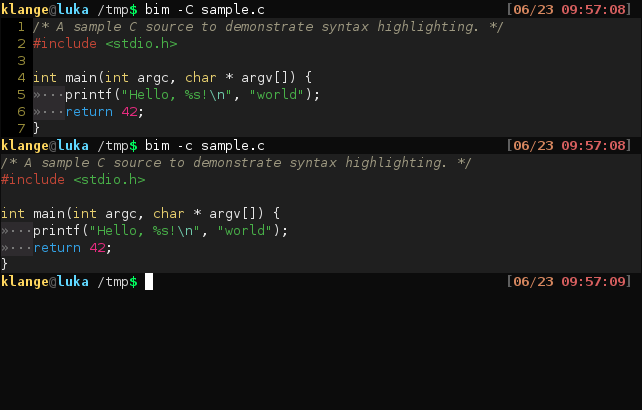
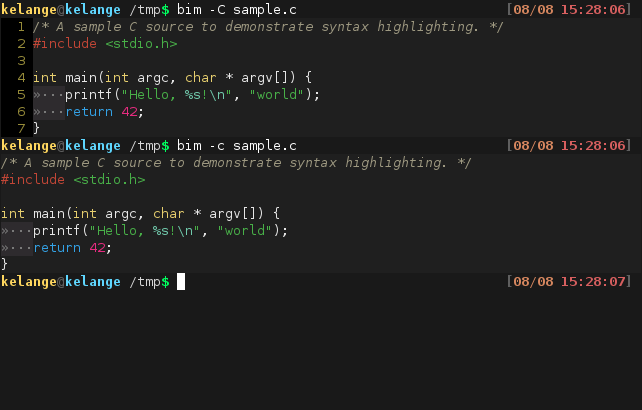
Update screenshots and fix up tool

diff --git a/docs/make_screenshots.py b/docs/make_screenshots.py
@@ -29,7 +29,9 @@ wid = wids[1]
 
 # Set up the cursor
 subprocess.run(['xdotool','windowfocus',wid,'type',":5\n"])
-subprocess.run(['xdotool','key','KP_Enter','Right','Right','Right','Right','Right','Right','Right'])
+subprocess.run(['xdotool','type',':4'])
+subprocess.run(['xdotool','key','KP_Enter'])
+subprocess.run(['xdotool','key','Right','Right','Right','Right','Right','Right','Right','Right'])
 
 # See what themes are supported.
 themes = subprocess.check_output(['bim','--version'],stderr=subprocess.STDOUT).decode().split('\n')[2].replace(' Available color themes: ','').split(' ')
